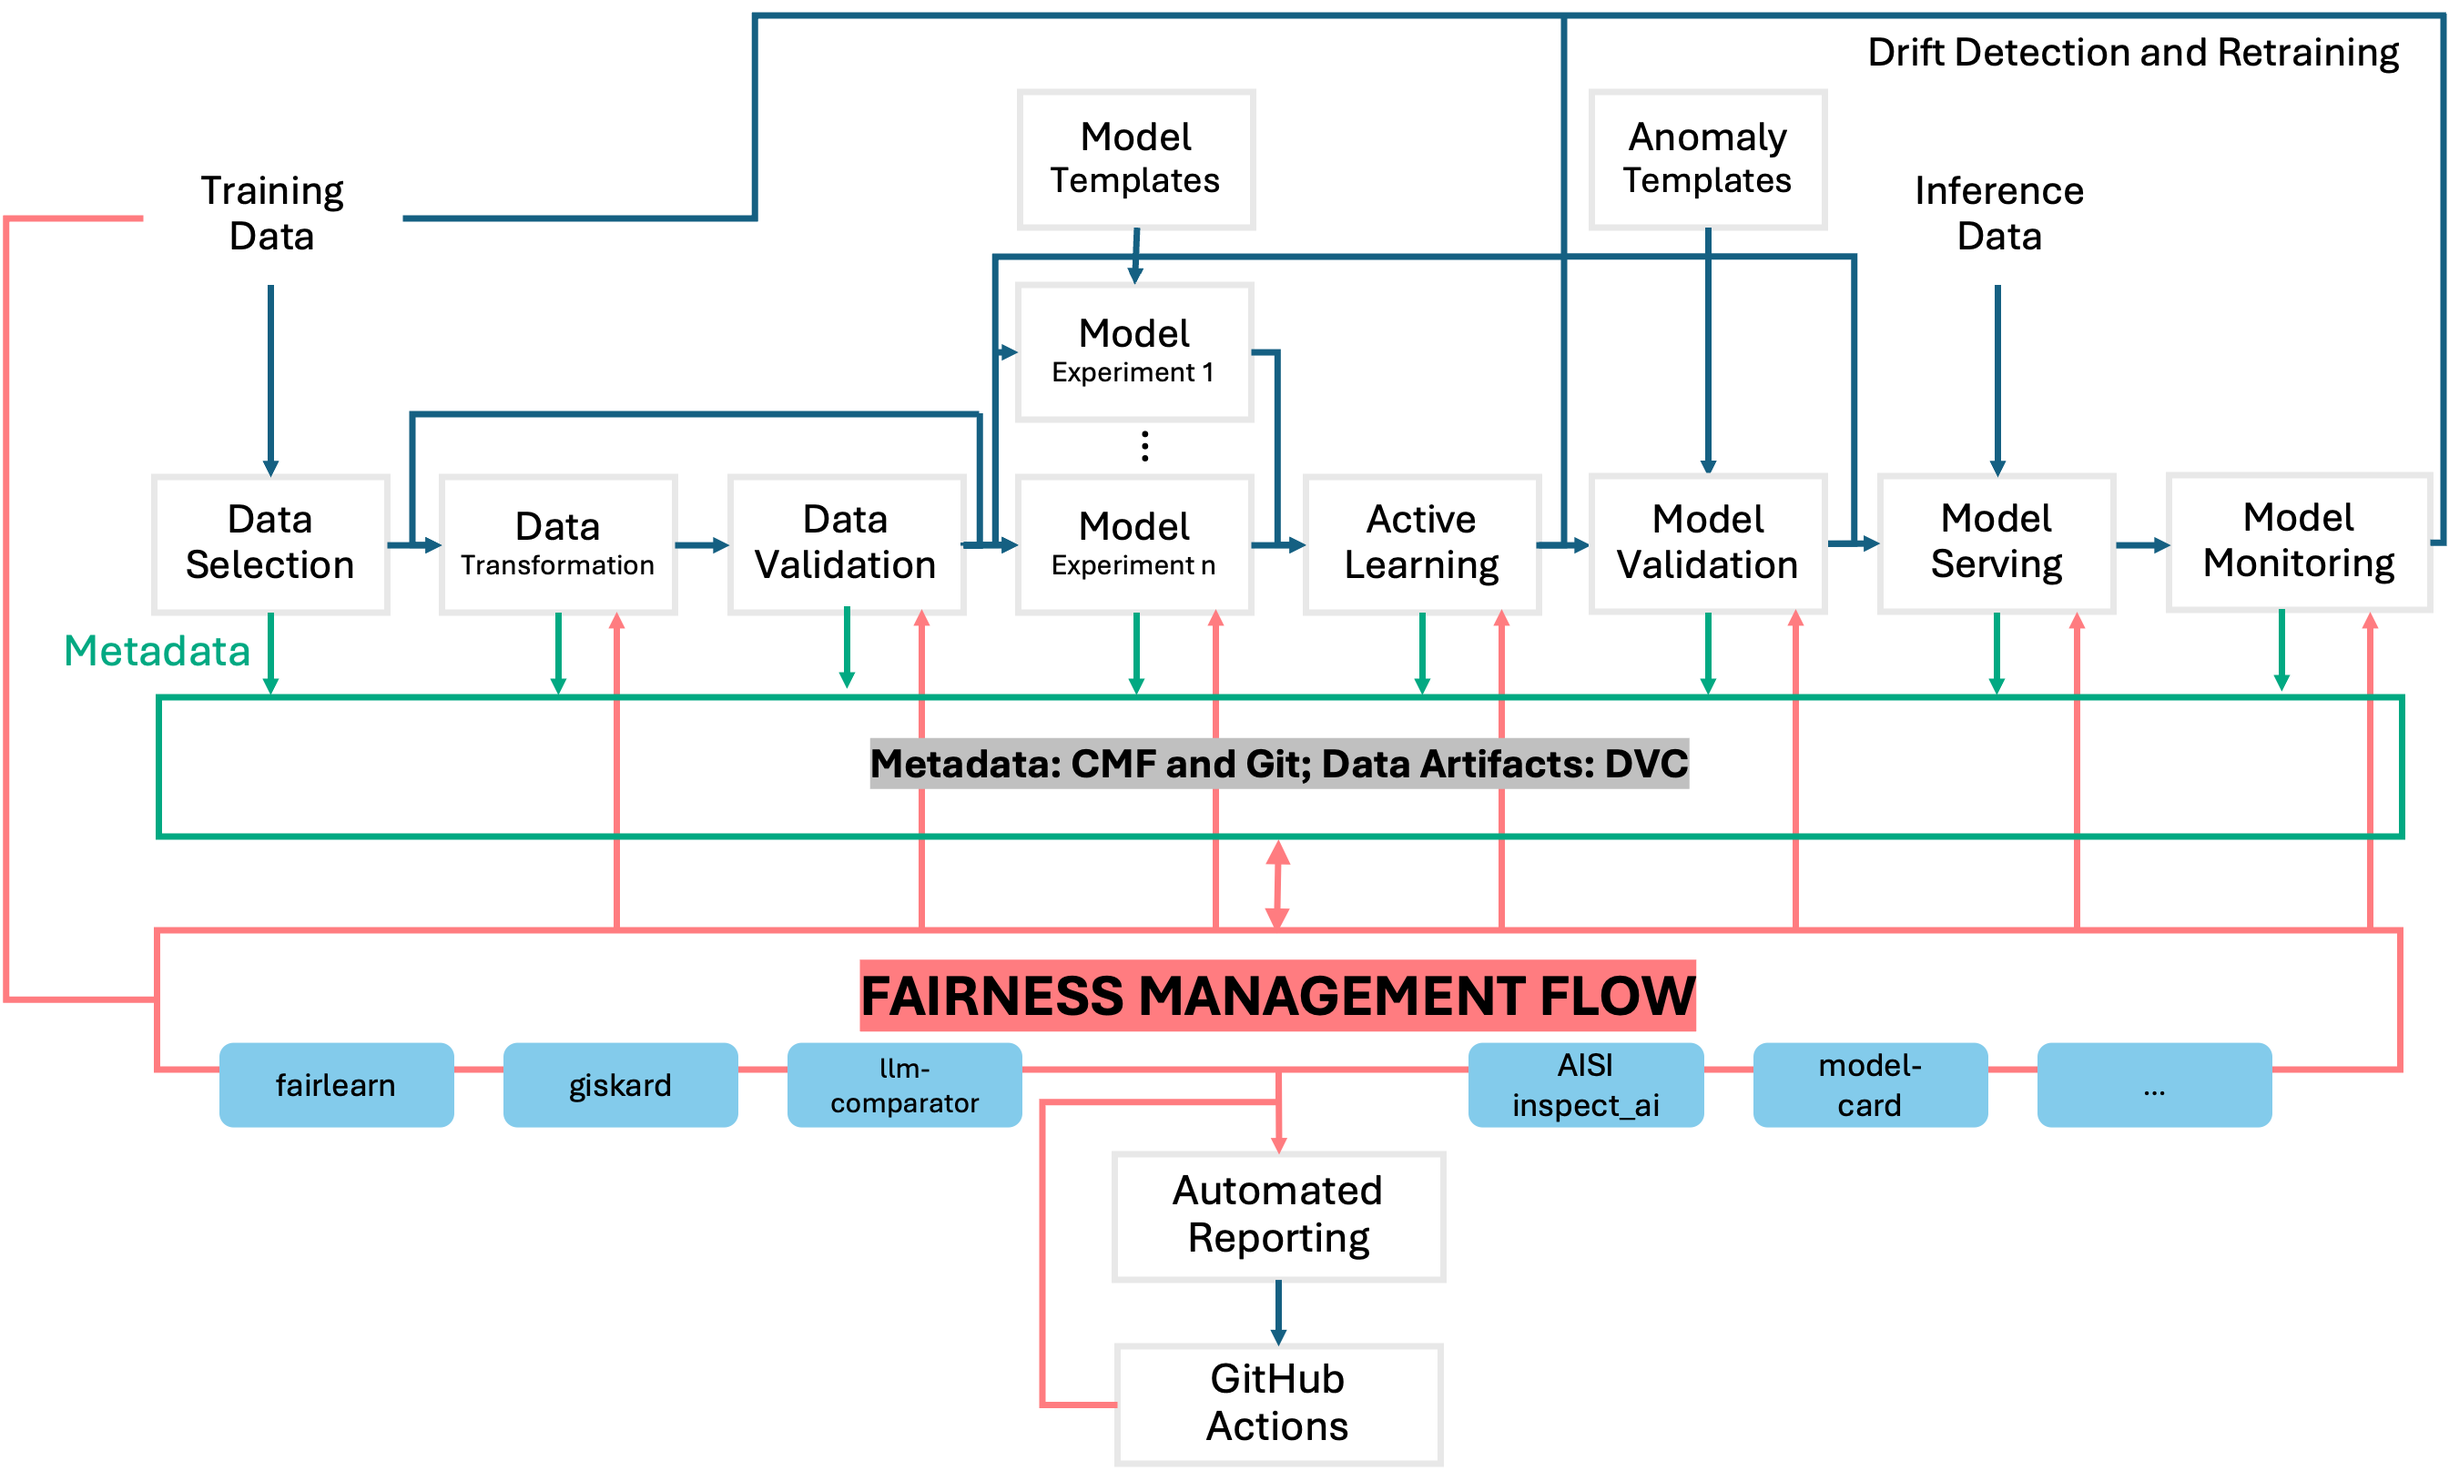
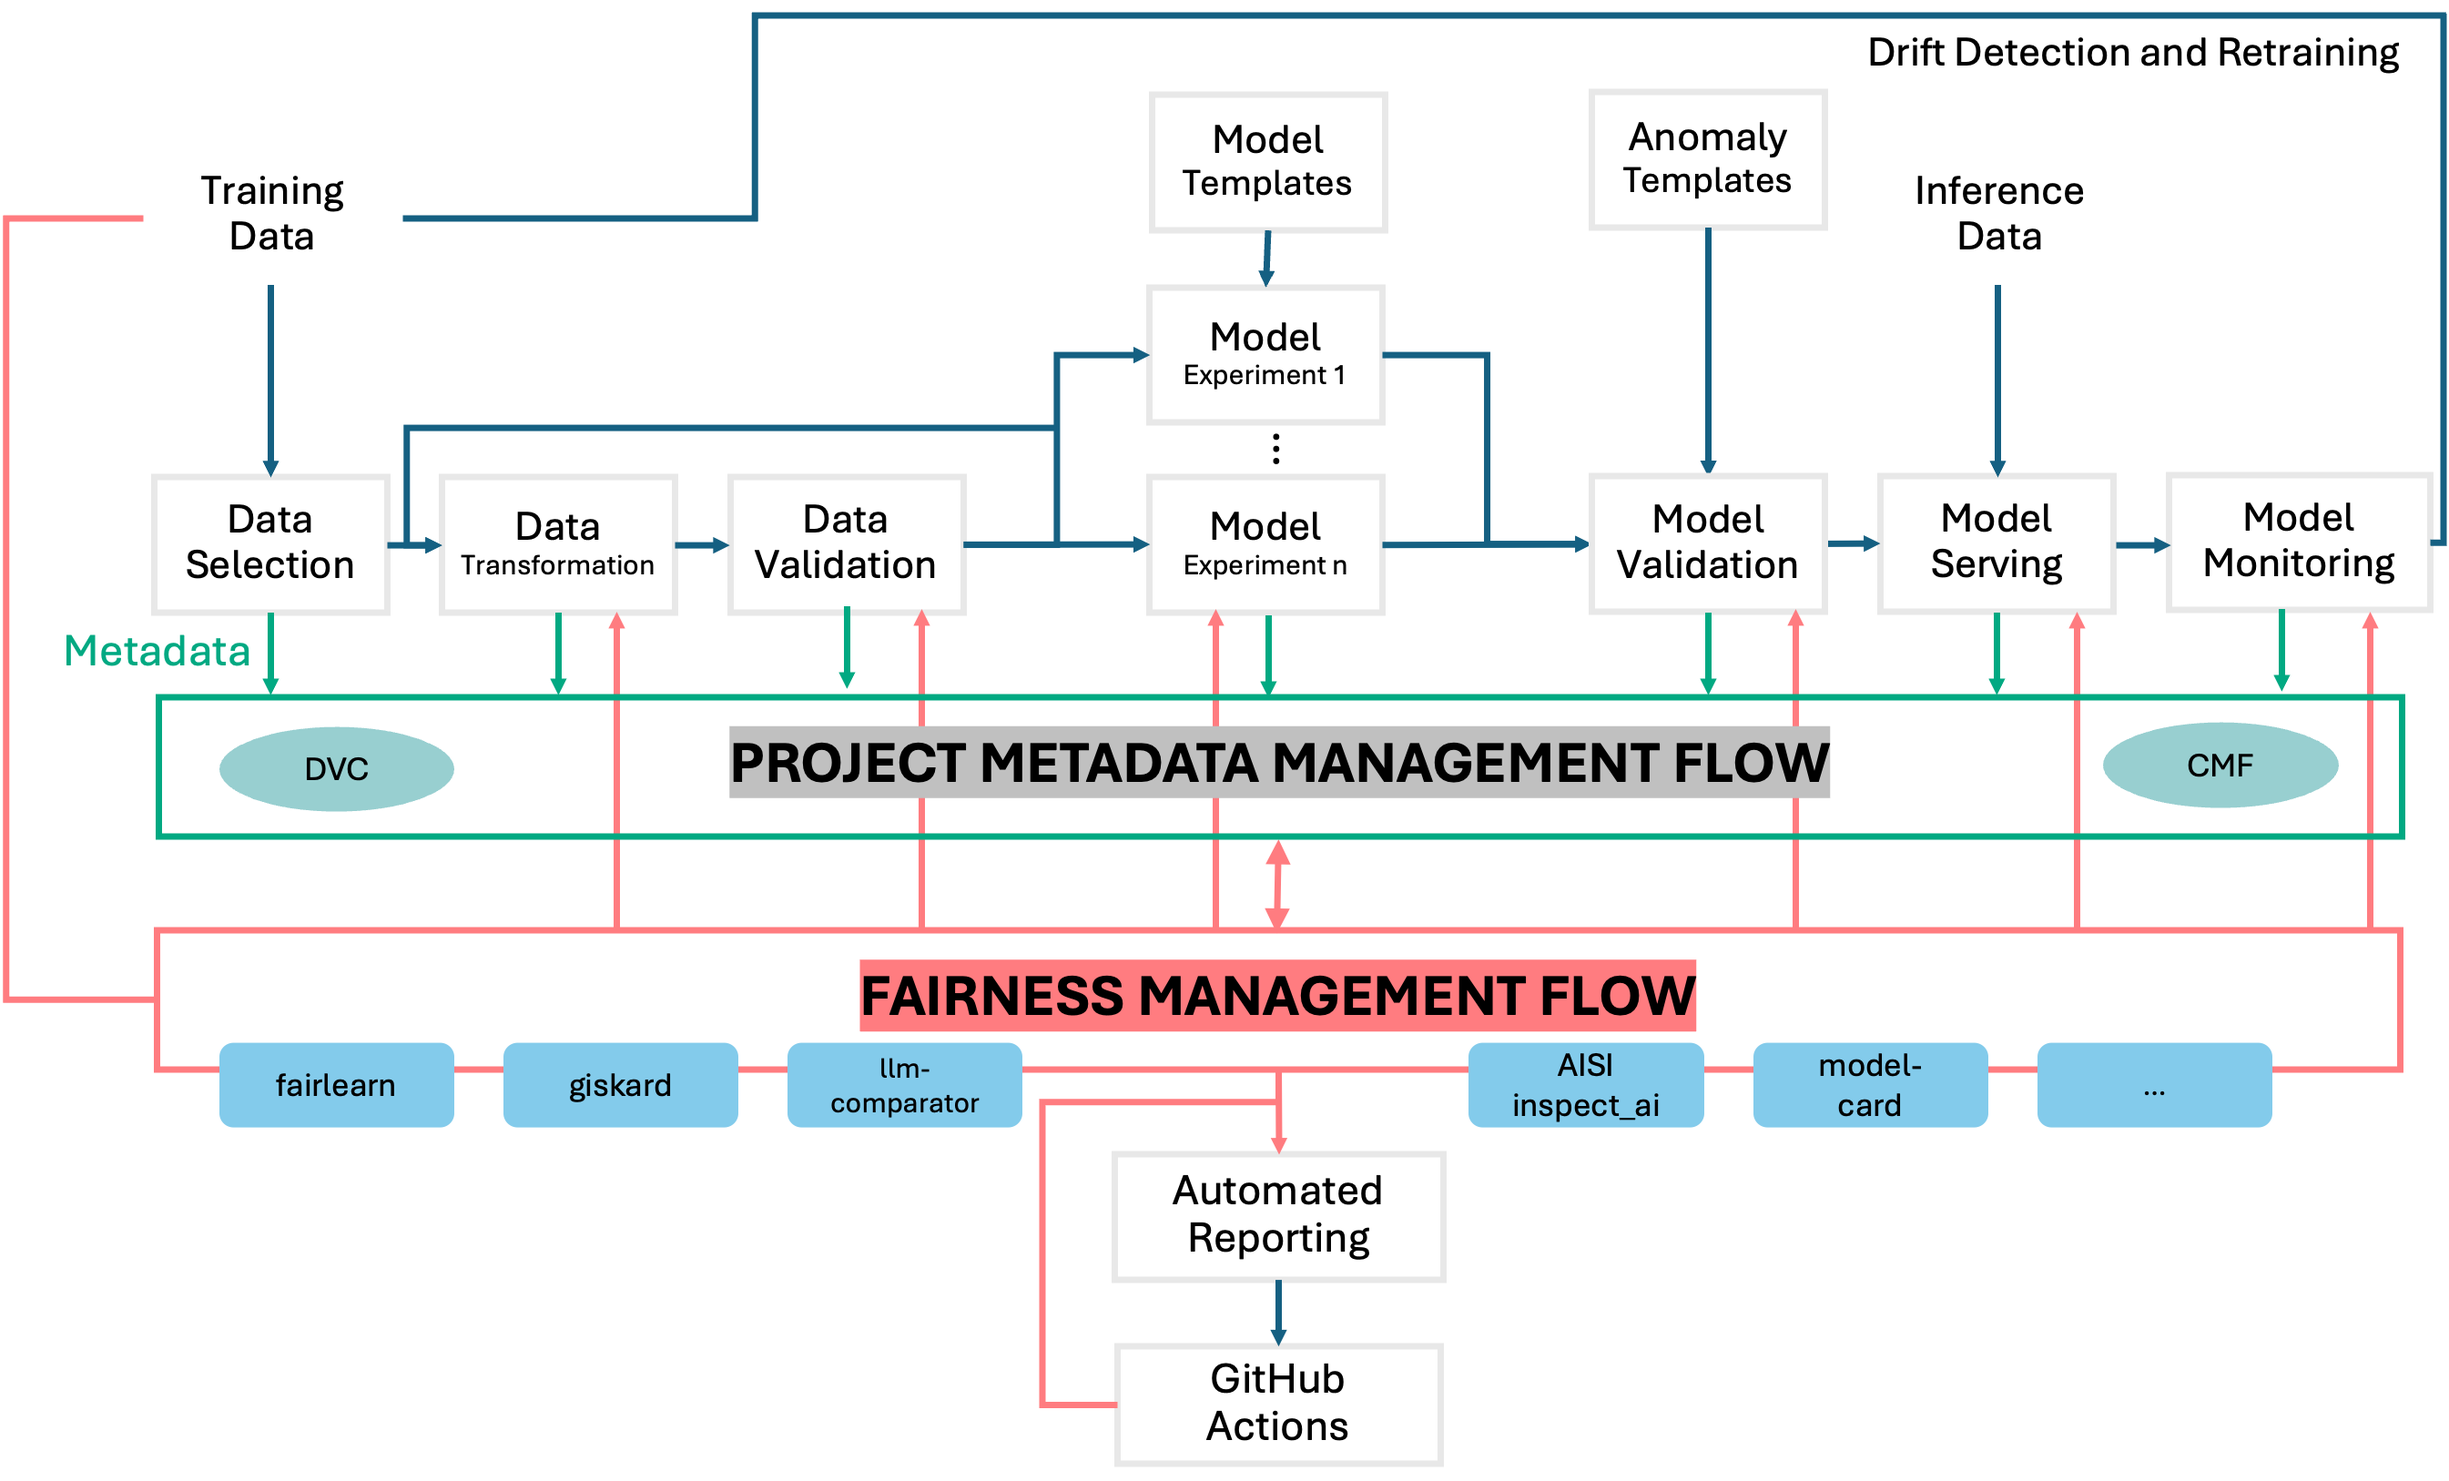
update-readme

diff --git a/README.md b/README.md
@@ -1,48 +1,38 @@
 # Proactive Monitoring of AI Fairness
 
-The project aims to enable a proactive fairness review approach in the early stages of AI development. It provides developer-oriented methods and tools to self-assess and monitor fairness. In this repository, we present a high level overview and project outputs.
+The project aims to enable a proactive fairness review approach in the early stages of AI development. It provides developer-oriented methods and tools to self-assess and monitor fairness. In this repository, we present a high level overview and list project outputs.
 
-## Developing a Monitoring/Logging Tool
+## Monitoring Fairness Metadata
 
-> **Visit the tool dev page:** <https://github.com/asabuncuoglu13/faid> (Currently a private repo, will be released on November.)
+> **Visit the tool dev page:** <https://github.com/asabuncuoglu13/faid>
 
-Incorporating interpretability and fairness into the ML development process requires the development team to manage insights from various tools and processes. Effectively utilizing information on model behavior and output disparities can enhance overall system fairness throughout the ML lifecycle by (1) providing insights into how features influence outcomes, (2) making model decisions understandable, (3) ensuring models meet fairness criteria, and (4) supporting informed decision-making. However, it's essential to recognize the limitations of current methods and to use them alongside other fairness-enhancing strategies, rather than as standalone solutions.
+Throughout the development of ML models, developers and other stakeholders use various documentation formats to enhance reproducibility and communicate the details of artefacts with both internal and external stakeholders. Organizations use metadata recording formats, such as model cards, data cards, and algorithmic transparency frameworks to improve transparency across development and deployment workflows. We refer to these documentation tools as "transparency artefacts," which are designed to enhance clarity, accountability, and trust in ML systems. We are developing a tool for effectively using these transparency artefacts as justified evidence to verify the team took the required actions and created enough evidence for the claimed fairness arguments.
 
+This "justified evidence" approach can enhance overall system fairness throughout the ML lifecycle by (1) providing insights into how features influence outcomes, (2) making model decisions understandable, (3) ensuring models meet fairness criteria, and (4) supporting informed decision-making. However, it's essential to recognise the limitations of current methods and to use them alongside other fairness-enhancing strategies, rather than as standalone solutions.
+
+**An overview of ML project lifecycle with CI/CD:**
 ![](./media/illustration.jpg)
 
-FAID (Fair AI Development) can support developers in documenting fairness-related information, which is crucial to ensure transparency and accountability in the development process. FAID’s logging framework supports comprehensive documentation by categorizing information into four key entities:
+**An overview of metadata flow throughout this lifecycle:**
+![](./media/metadataflow.png)
+
+The tool, FAID (Fair AI Development), can support developers in documenting fairness-related information, which is crucial to ensure transparency and accountability in the development process. FAID’s logging framework supports comprehensive documentation by categorizing information into four key entities:
 
 1. **Experiment-Level Fairness Log**: Tracks high-level fairness considerations across the entire system, ensuring that all components align with the overarching fairness objectives.
-2. **Model Log**: Captures detailed information about model performance, including fairness metrics, bias assessments, and adjustments made during the development process. FAID's model metadata logging capability follows Google's model metadata format. For instance, their open-source LLM model, Gemma 2, is documented here: <https://ai.google.dev/gemma/docs/model_card_2>. The model card includes an "Ethics and Safety" section with benchmark scores from nine dataset evaluations.
-3. **Data Log**: Documents the data sources, preprocessing steps, and any biases identified in the data, ensuring that data integrity is maintained throughout the lifecycle.
+2. **Model Log**: Captures detailed information about model performance, including fairness metrics, bias assessments, and adjustments made during the development process. FAID's model metadata logging capability follows Google's model metadata format (See an [example model card](https://ai.google.dev/gemma/docs/model_card_2)).
+3. **Data Log**: Documents the data sources, preprocessing steps, and any biases identified in the data, ensuring that data integrity is maintained throughout the lifecycle. (See an [example datasheet]()).
 4. **Risk Log**: Records potential risks related to fairness and how they are mitigated, including any ethical concerns, compliance issues, and the steps taken to address them.
 
-## Testing Fairness Evaluation and Mitigation Techniques
+## Fairness Evaluation of a Finance Use CAse
 
-We selected a set of evaluation and mitigation strategies that can inform the design of the “fairness rules”. Data and algorithm related techniques are selected from Gallegos et al.’s [^1] comprehensive survey. The selected techniques for data, algorithm and interaction components are following:
-
-### Data Experiments
-
-1.  **Counterfactual input techniques (evaluation):** By modifying the features of existing instances generate counterfactual instances. Use new instances to enhance the generalization of the model.
-2.  **Prompt-based strategies (evaluation):** It includes sentence completions and question-answering tasks. We can measure co-occurrence patterns for generated output.
-3.  **Data balancing/augmentation techniques (mitigation):** Increase the diversity of the training dataset by introducing synthetic samples or applying transformation techniques.
-4.  **Projection-based techniques (mitigation):** As part of the pre-processing, transforming learned representations in the embedding space can augment balancing before the learning process.
-
-### Algorithm Experiments
-
-1. **Embedding-based metrics (evaluation):** Actively monitoring word or sentence level embeddings and computing the distances between certain groups.
-2. **Probability based metrics (evaluation):** These metrics include comparing the next-token probabilities or likelihoods between sentences.
-3. **Architecture modification technique (mitigation):** Changing the architecture configuration or including new layers for de-biasing can dynamically guide models to learn fair representations.
-4. **Analysing modular debiasing networks (mitigation):** Modular networks can work as abstract models that can work stand-alone independent of the architecture configurations.
-
+We selected a set of evaluation and mitigation strategies that can inform the design of the tool. Data and algorithm related techniques are selected from Gallegos et al.’s [^1] comprehensive survey.
 
 > **Visit FinBERT Sentiment Analysis Fairness Evaluation repository:** <https://github.com/asabuncuoglu13/faid-test-financial-sentiment-analysis>
 
 
-### Interaction Method Analysis
+## Understanding equitable interaction
 
-1. **ISO 9241 Ergonomics of human-systems interactions to assess interfaces/interactions:** The comprehensive framework aims to assess usability and apply it to interactive system design. Providing insights related to design considerations will support our proactive fairness “by design” approach.
-2. **Microsoft Human-AI Interaction to assess interfaces/interactions:** It is a structured thinking process to design AI-powered applications.
+We utilised ISO 9241 (Ergonomics of human-systems interactions), and Microsoft's Human-AI Interaction Guideline to assess how existing interactions can impact the overall fairness of the system.
 
 > **See an example analysis here:** <https://asabuncuoglu13.github.io/equitable-ai-cookbook/usecases/finance/interaction.html>
 
